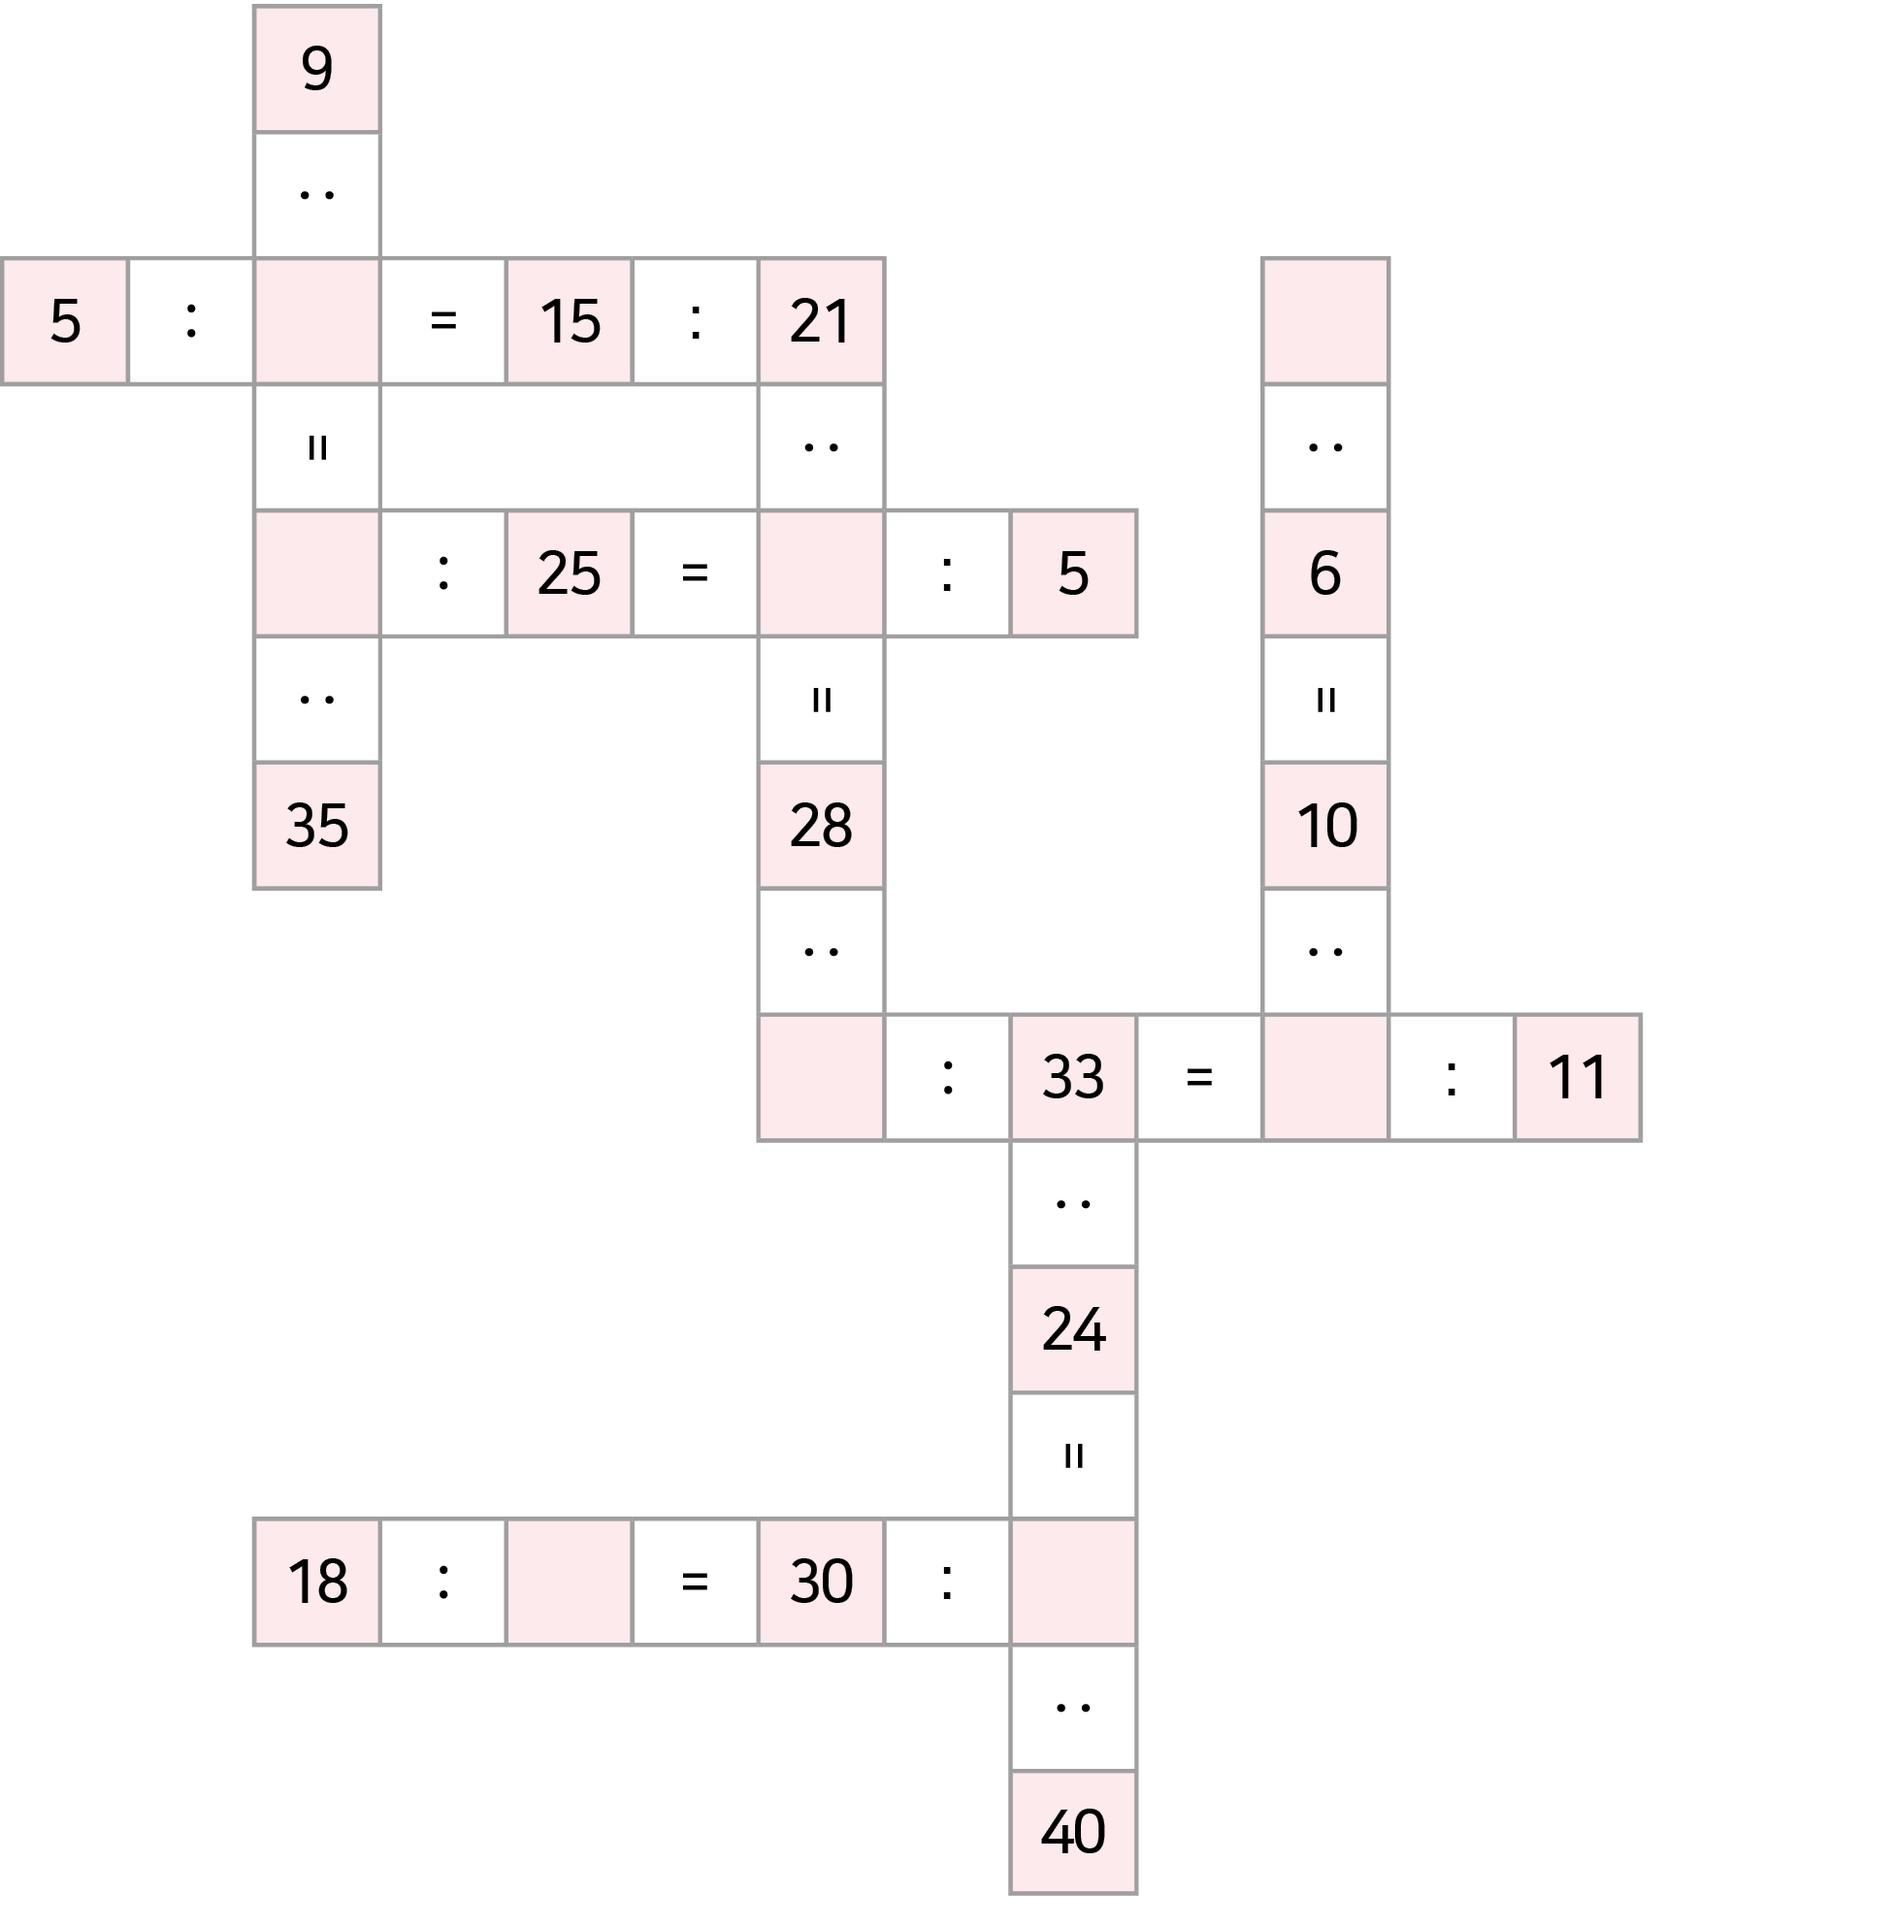
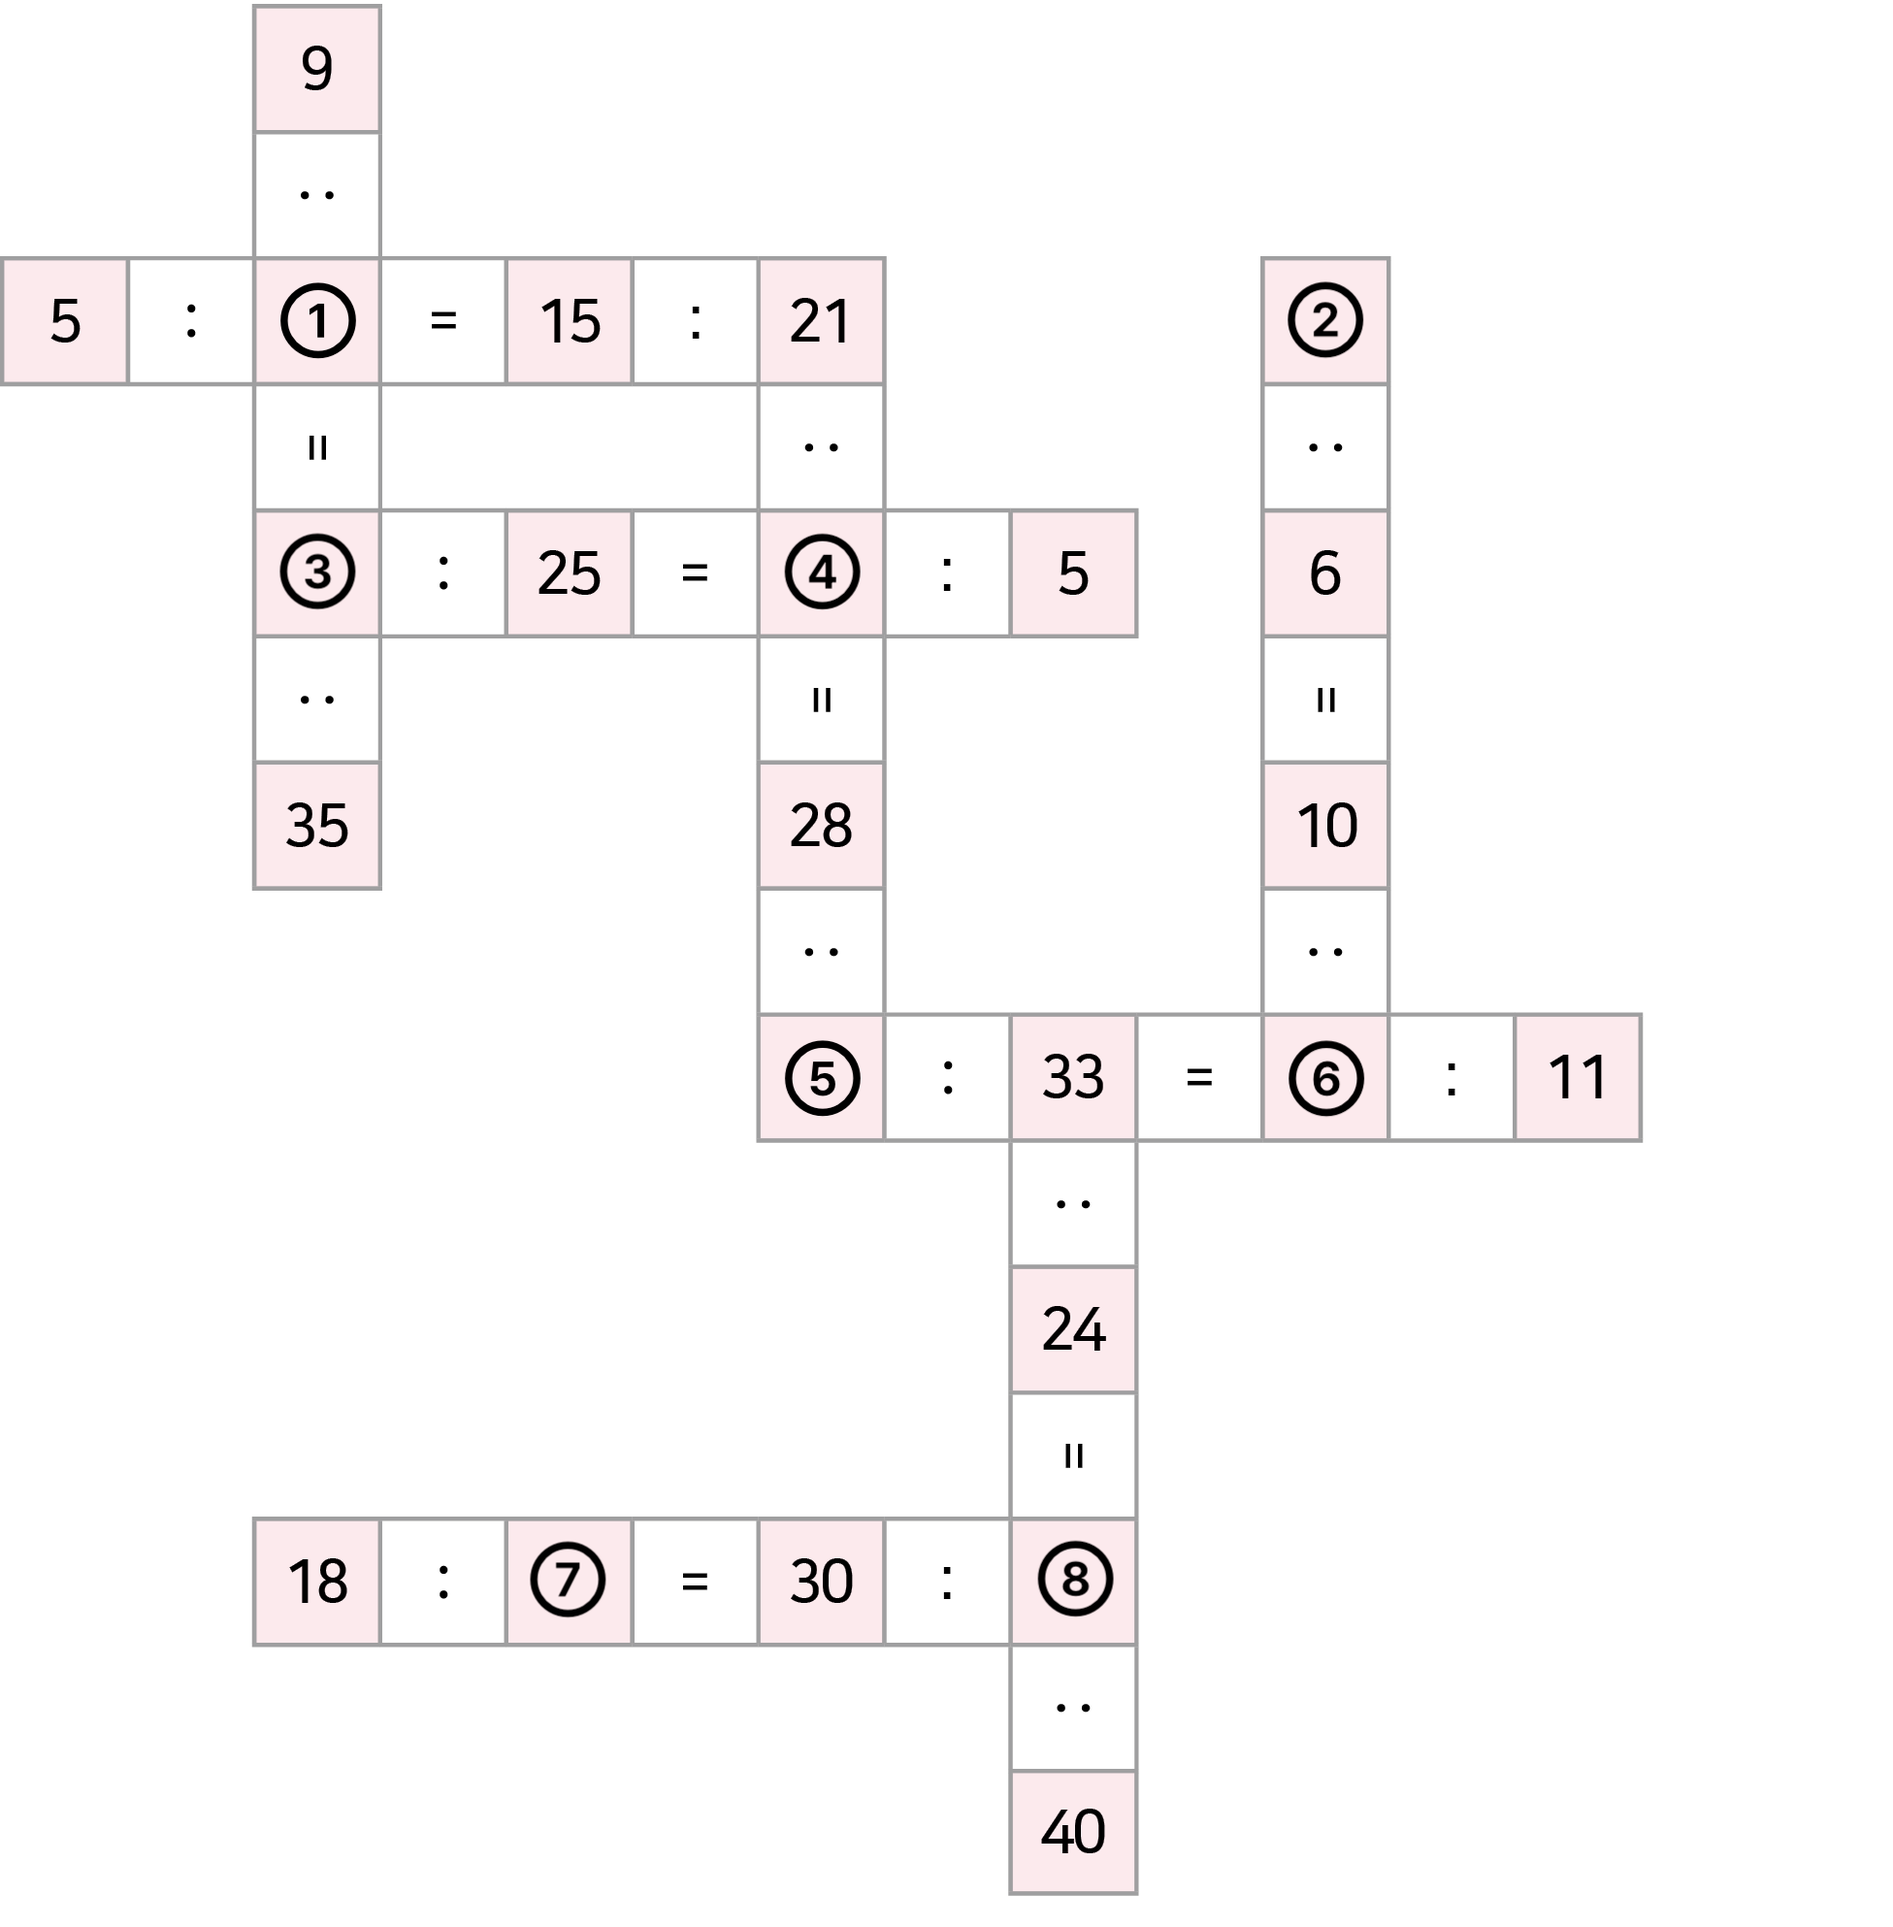
[ feat ] P452 문제 매핑 및 뷰, 채점 로직 연결 완료

diff --git a/src/contents/Six-four/day5/P452.tsx b/src/contents/Six-four/day5/P452.tsx
@@ -1,0 +1,133 @@
+import { useState } from 'react';
+import { Avatar, Box } from '@mui/material';
+
+import Layout from 'src/contents/common/layout';
+import SubmitButton from 'src/contents/common/submit-button';
+import C452 from './C452';
+
+import Img from '../../assets/image/P452/4-5-2.png';
+
+export default function P452() {
+  const [isSolved, setIsSolved] = useState(false);
+  const [passArray, setPassArray] = useState(
+    problems.map(problem => problem.pass)
+  );
+
+  const handleCorrectChange = (qId: number, pass: boolean) => {
+    setPassArray(prevPassArray => {
+      const newPassArray = [...prevPassArray];
+      newPassArray[qId] = pass;
+      return newPassArray;
+    });
+  };
+
+  const checkAnswer = () => {
+    //TODO 점수 보내는 api 추가
+    setIsSolved(prev => !prev);
+  };
+  return (
+    <Layout
+      day="day5"
+      title="□ 구하기"
+      question={'각 번호에 들어갈 알맞은 수를 써넣으세요.'}
+    >
+      <Box width="100%" display="flex" justifyContent="center">
+        <Avatar
+          src={Img}
+          variant="square"
+          style={{
+            width: '35rem',
+            height: 'max-content',
+            marginBottom: '2rem',
+          }}
+        />
+      </Box>
+      <Box display="flex" flexWrap="wrap" gap="3rem" justifyContent="center">
+        {problems.map(problem => (
+          <Box
+            key={problem.qNum}
+            sx={{
+              overflowY: 'auto',
+              display: 'flex',
+              justifyContent: 'center',
+              paddingLeft: '2rem',
+              height: '7rem',
+            }}
+          >
+            <C452
+              problem={problem}
+              isSolved={isSolved}
+              handleCorrectChange={(qId, pass) =>
+                handleCorrectChange(qId, pass)
+              }
+            />
+          </Box>
+        ))}
+      </Box>
+
+      <SubmitButton
+        onClick={checkAnswer}
+        $color="#00B76A"
+        isSolved={isSolved}
+      />
+    </Layout>
+  );
+}
+
+export interface ProblemProp {
+  qId: number;
+  qNum: string;
+  pass: boolean;
+  answer: number;
+}
+
+const problems: ProblemProp[] = [
+  {
+    qId: 0,
+    qNum: '①',
+    pass: false,
+    answer: 7,
+  },
+  {
+    qId: 1,
+    qNum: '②',
+    pass: false,
+    answer: 15,
+  },
+  {
+    qId: 2,
+    qNum: '③',
+    pass: false,
+    answer: 45,
+  },
+  {
+    qId: 3,
+    qNum: '④',
+    pass: false,
+    answer: 9,
+  },
+  {
+    qId: 4,
+    qNum: '⑤',
+    pass: false,
+    answer: 12,
+  },
+  {
+    qId: 5,
+    qNum: '⑥',
+    pass: false,
+    answer: 4,
+  },
+  {
+    qId: 6,
+    qNum: '⑦',
+    pass: false,
+    answer: 33,
+  },
+  {
+    qId: 7,
+    qNum: '⑧',
+    pass: false,
+    answer: 55,
+  },
+];

diff --git a/src/contents/Six-four/day5/C452.tsx b/src/contents/Six-four/day5/C452.tsx
@@ -1,0 +1,52 @@
+import { useEffect, useState } from 'react';
+import { Box, Typography } from '@mui/material';
+
+import CorrectChecker from 'src/contents/common/correct-checker';
+import { NumberInput } from 'src/contents/common/number-box';
+import VisualFraction from 'src/contents/common/visual-fraction';
+
+import type { ProblemProp } from './P452';
+
+interface C452Props {
+  problem: ProblemProp;
+  isSolved: boolean;
+  handleCorrectChange: (qId: number, pass: boolean) => void;
+}
+
+export default function C452(props: C452Props) {
+  const { problem, isSolved, handleCorrectChange } = props;
+  const { qId, pass, qNum, answer } = problem;
+
+  const [isCorrect, setIsCorrect] = useState(false);
+
+  const [input, setInput] = useState<undefined | number>(undefined);
+
+  useEffect(() => {
+    if (answer === input) {
+      setIsCorrect(true);
+      handleCorrectChange(qId, true);
+    } else {
+      setIsCorrect(false);
+      handleCorrectChange(qId, false);
+    }
+  }, [isSolved, qId]);
+
+  return (
+    <Box display="flex">
+      <Box display="flex" alignItems="center" gap="1rem">
+        <Box display="flex" alignItems="center" position="relative">
+          {isSolved && <CorrectChecker isCorrect={isCorrect} />}
+          <Typography variant="h5" fontWeight={600}>
+            {qNum}
+          </Typography>
+        </Box>
+        <Box display="flex" gap="0.3rem" alignItems="center">
+          <NumberInput
+            value={input}
+            onChange={e => setInput(Number(e.target.value))}
+          />
+        </Box>
+      </Box>
+    </Box>
+  );
+}

diff --git a/src/contents/six.routes.ts b/src/contents/six.routes.ts
@@ -212,4 +212,8 @@ export default createEliceExtRoutes([
     path: 'quiz4-5-1',
     component: import('./Six-four/day5/P451'),
   },
+  {
+    path: 'quiz4-5-2',
+    component: import('./Six-four/day5/P452'),
+  },
 ]);
